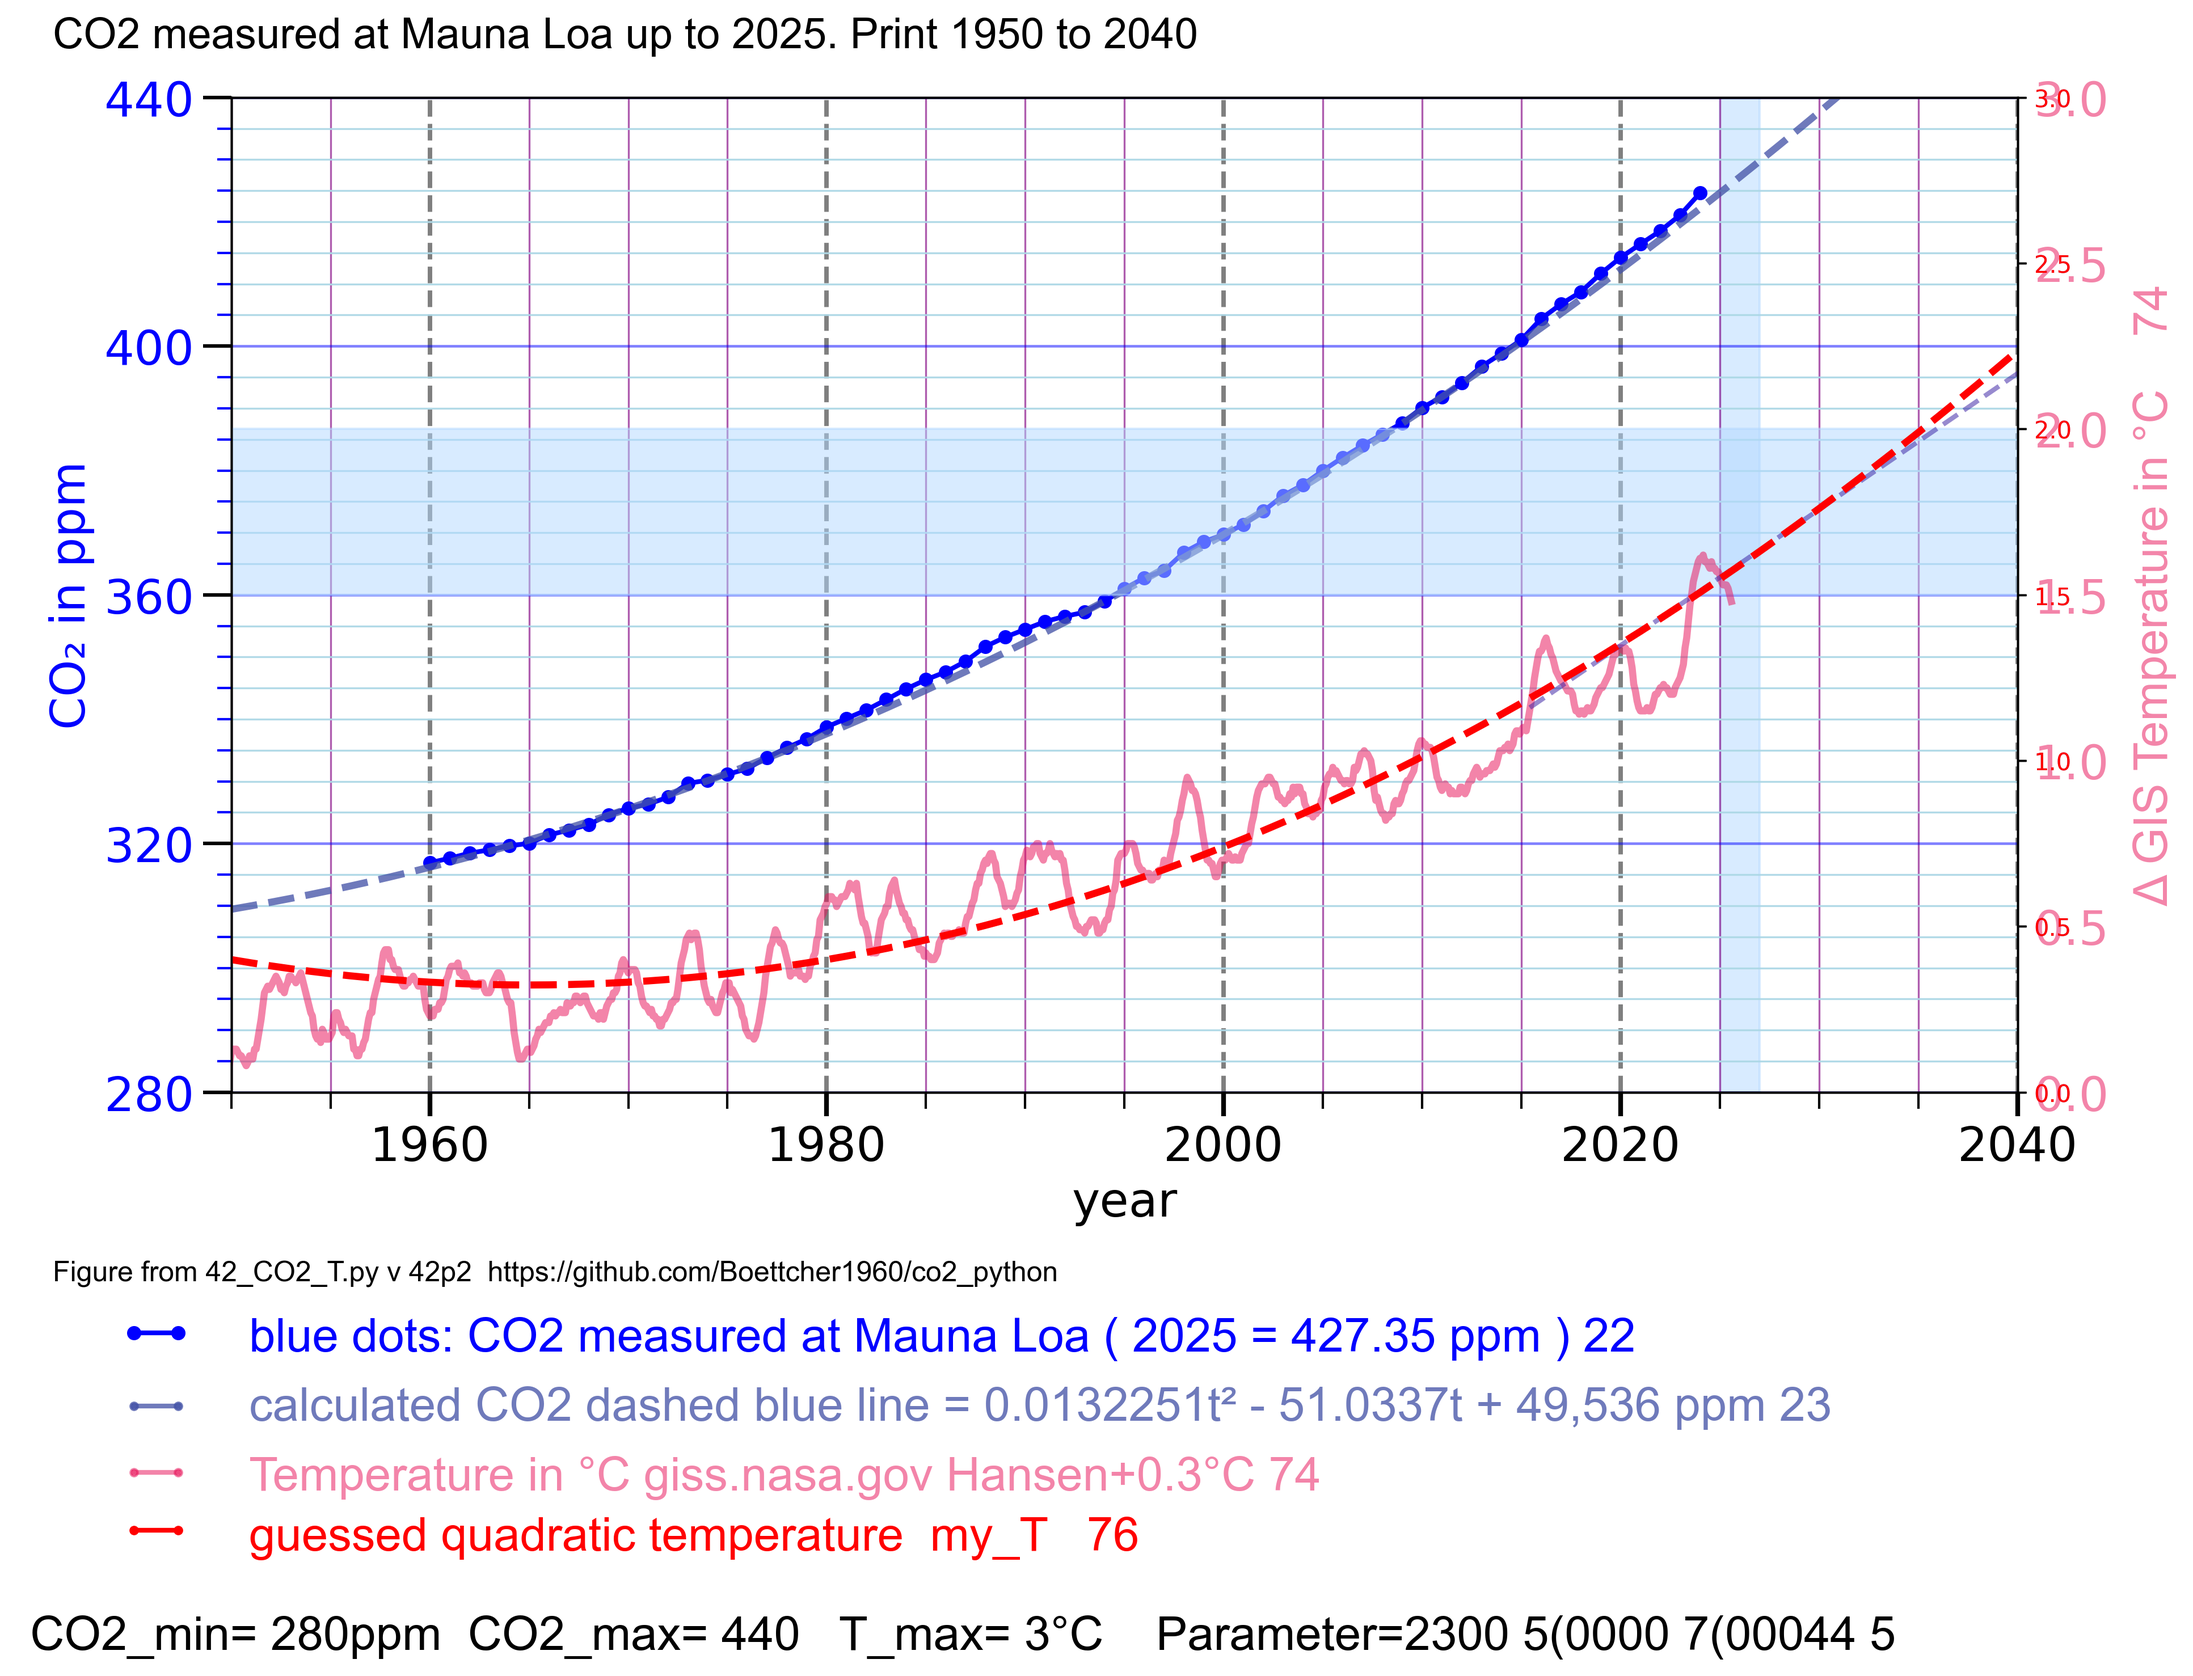
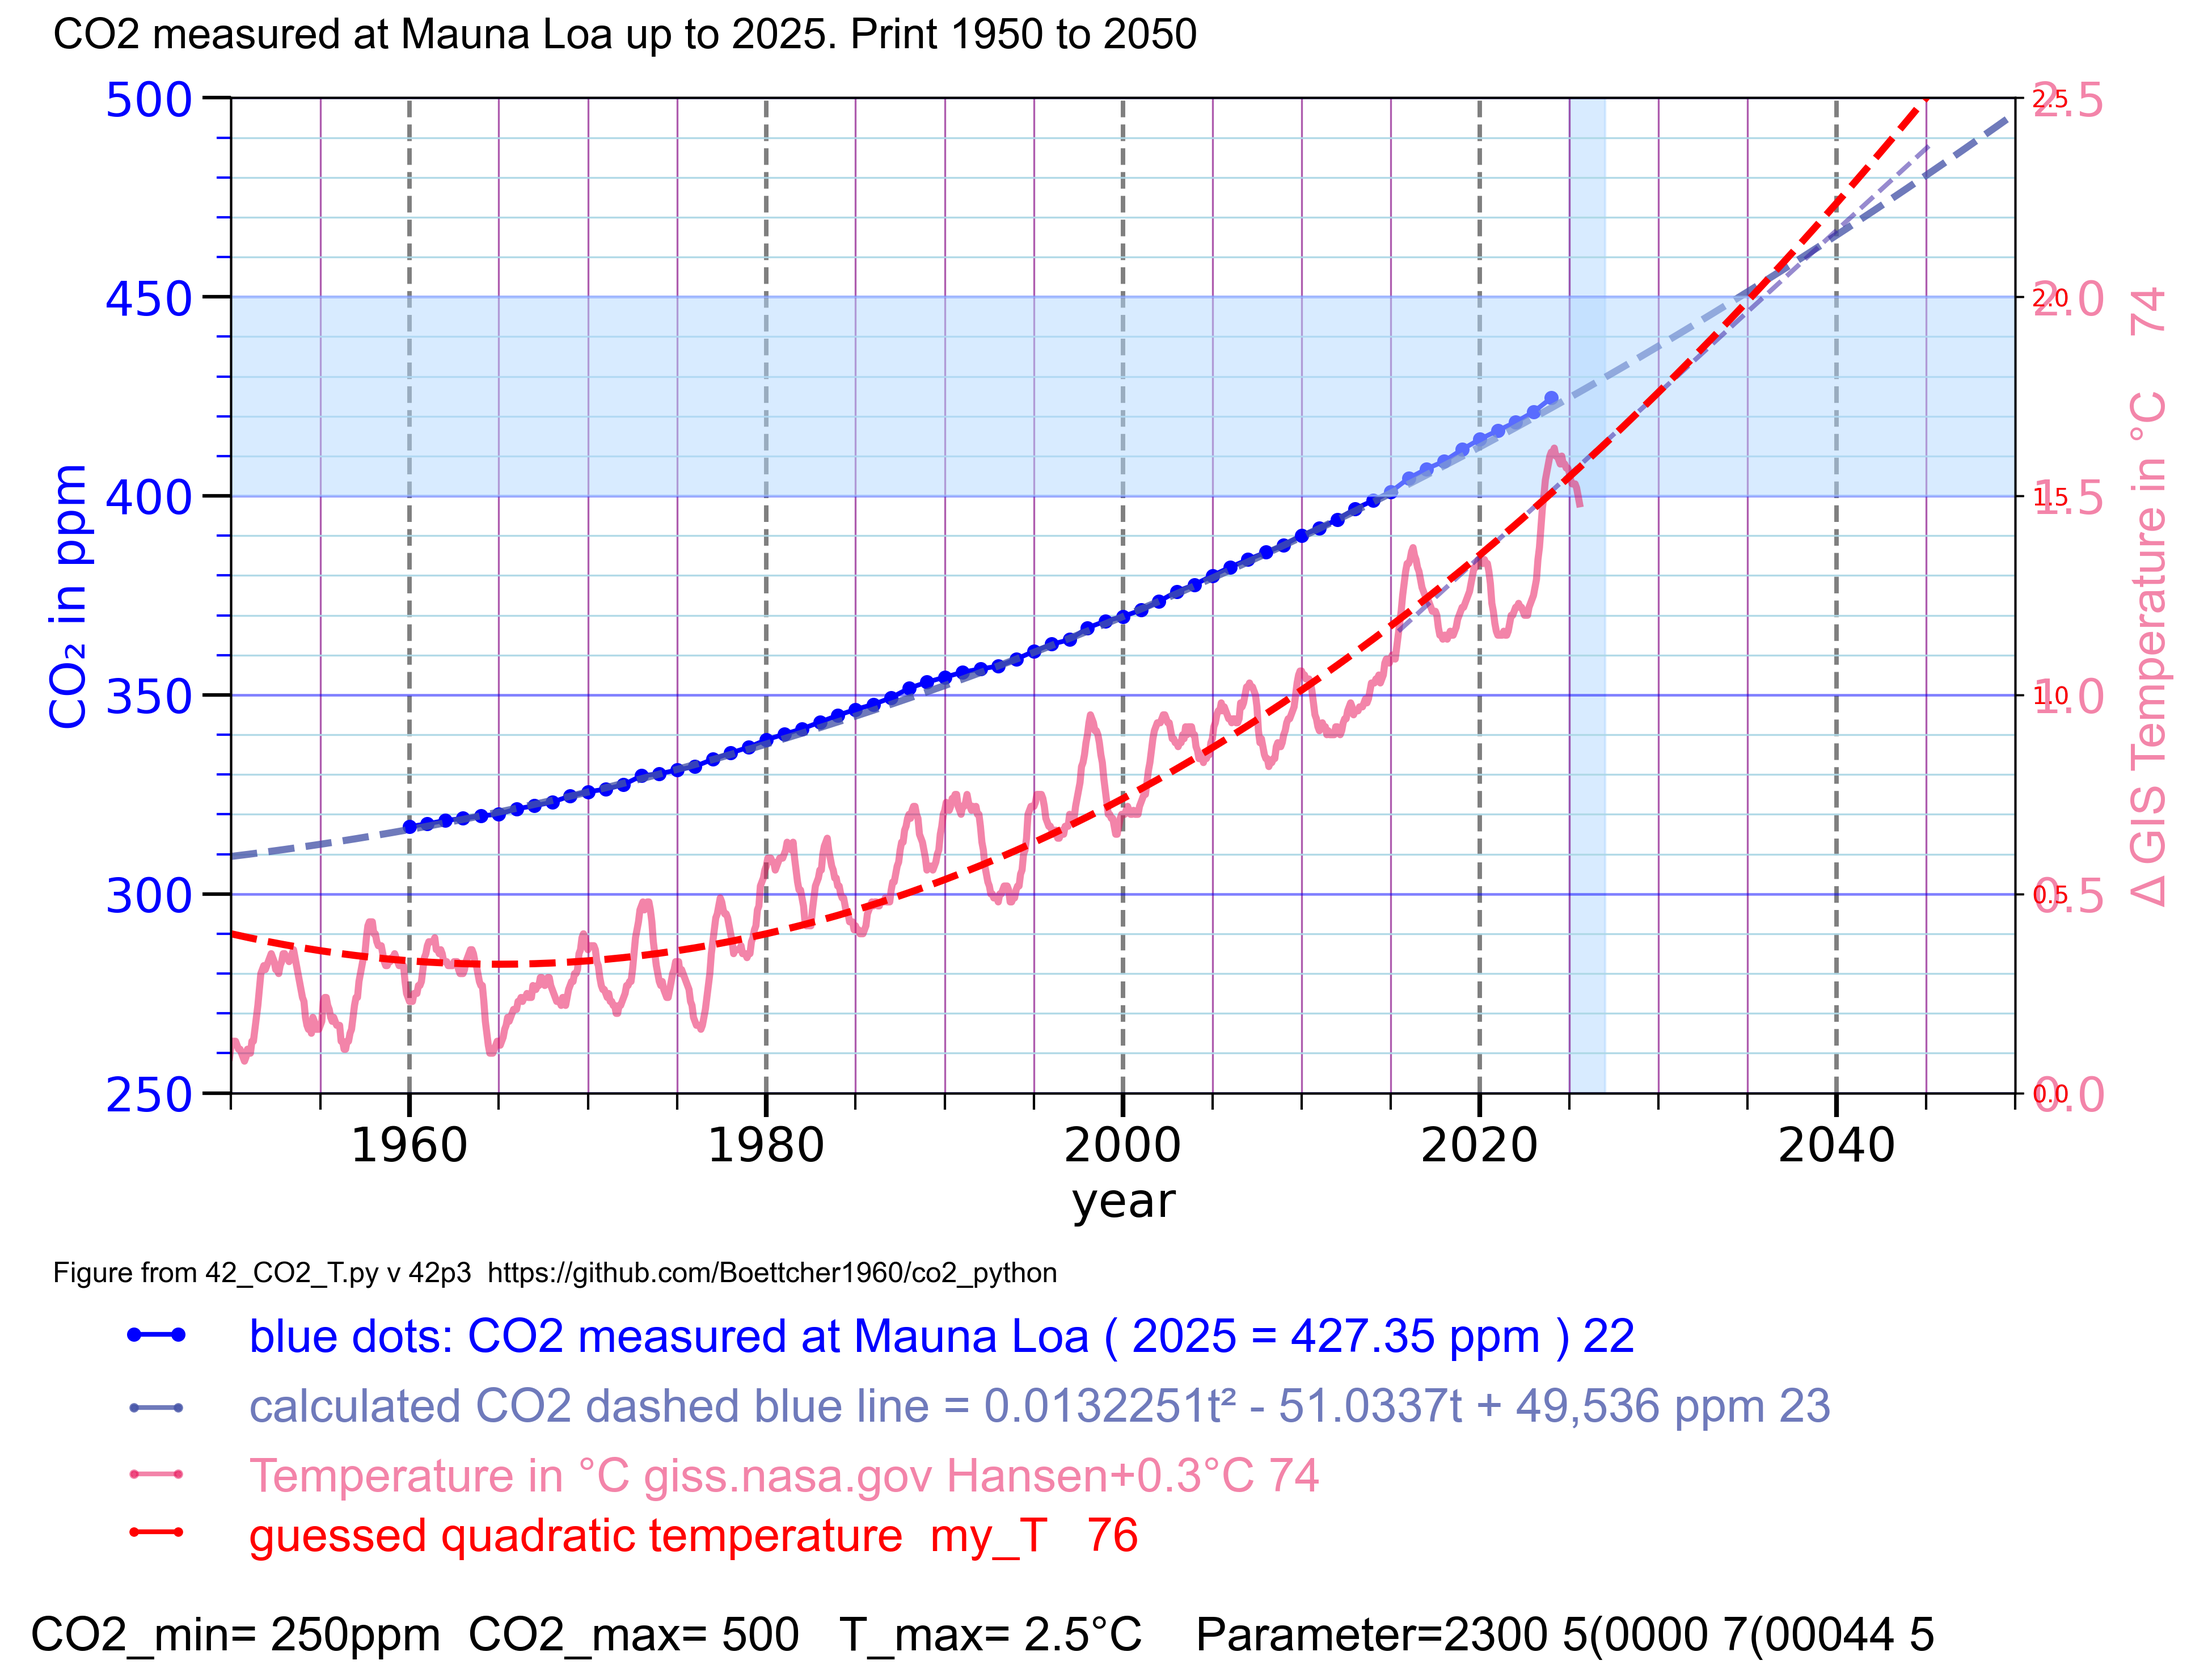
d

diff --git a/42_CO2_T.py b/42_CO2_T.py
@@ -93,15 +93,15 @@ else:
 C280=280 # CO2 concentration 1750 275 ppm
 
 # 1.3.1 scale the left Y axis
-y_min = 280 # 300 # min value 280
-y_max = 440 # 1300 # min value 440 70
+y_min = 250 # 300 # min value 280
+y_max = 500 # 1300 # min value 440 70
 
 # 1.3.2 scale the right Y axis
 y_Tmin = 0 # min value °C
-y_Tmax = 3 # 1.6 4 # max value C
+y_Tmax = 2.5 # 1.6 4 # max value C
 
 x_anf = 1950 # 1960 2000 -33000
-x_end = 2040 # 2200 2026 
+x_end = 2050 # 2200 2026 
 
 # 1.4.5 scale the text rows below the plot field
 tr1x = -0.09 # text row 1 x value -.3...1 -0.12
